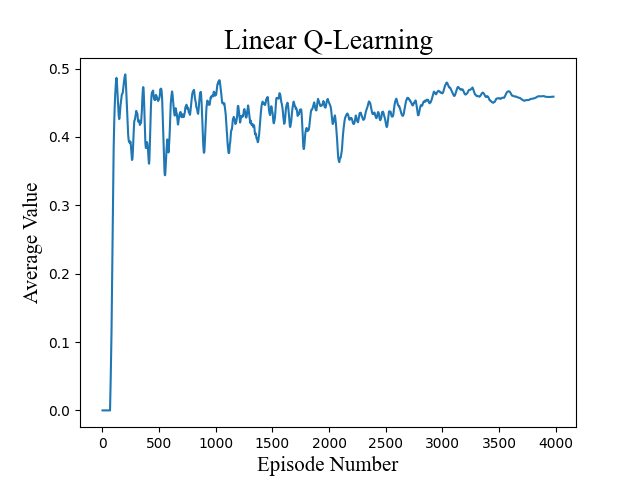
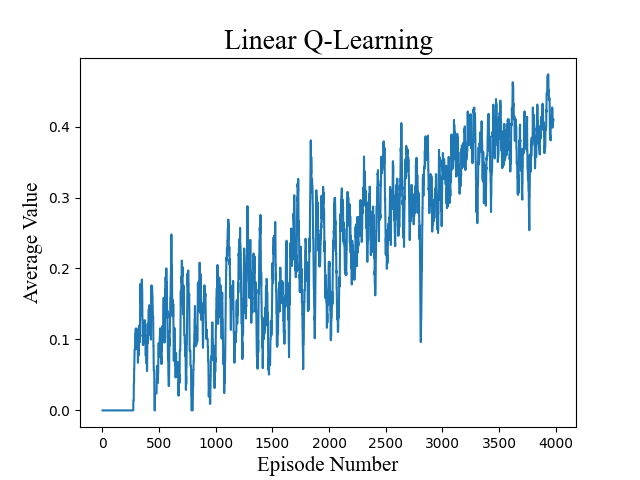
Corrected plots

diff --git a/FrozenLake.py b/FrozenLake.py
@@ -374,6 +374,7 @@ def sarsa(env, max_episodes, eta, gamma, epsilon, seed=None):
         actionValueList=q[stateS]
         actionA=epsilonGreedyAlgo(epsilon[i], actionValueList, env)
         done=False
+        return_rewards = 0
         while not done:
             ns,reward,done=env.step(actionA)
            
@@ -381,8 +382,9 @@ def sarsa(env, max_episodes, eta, gamma, epsilon, seed=None):
             q[stateS, actionA]=q[stateS,actionA]+(eta[i]*(reward+(gamma*(q[ns,na]))-q[stateS,actionA]))
             stateS=ns
             actionA=na
-        # Storing reward    
-        reward_store_array = reward_store_array + [np.mean(q.max(axis=1))] 
+            # Storing reward    
+            return_rewards = return_rewards + (gamma**env.n_steps) * reward
+        reward_store_array.append(return_rewards)
 
     # Plotting graph
     graph_plot = np.convolve(reward_store_array, np.ones(20)/20, mode='valid')
@@ -415,6 +417,7 @@ def q_learning(env, max_episodes, eta, gamma, epsilon, seed=None):
         stateS = env.reset()
         actionList=q[stateS]
         actionA=epsilonGreedyAlgo(epsilon[i], actionList, env)
+        return_rewards = 0
         done=False
         while not done:
             ns,reward,done=env.step(actionA)
@@ -432,7 +435,8 @@ def q_learning(env, max_episodes, eta, gamma, epsilon, seed=None):
             actionA=na
 
         # Storing reward    
-        reward_store_array = reward_store_array + [np.mean(q.max(axis=1))] 
+            return_rewards = return_rewards + (gamma**env.n_steps) * reward
+        reward_store_array.append(return_rewards)
  
     # Plotting graph
     graph_plot = np.convolve(reward_store_array, np.ones(20)/20, mode='valid')
@@ -515,7 +519,7 @@ def linear_sarsa(env, max_episodes, eta, gamma, epsilon, seed=None):
         q = features.dot(theta)
         # TODO:
         action = epsilonGreedyFunction(random_state, env, q, epsilon[i])
-
+        return_rewards = 0
         done = False
         while not done:
             e = (gamma * e) + features[action]
@@ -531,7 +535,8 @@ def linear_sarsa(env, max_episodes, eta, gamma, epsilon, seed=None):
             features = features_dash
 
         # Storing reward    
-        reward_store_array = reward_store_array + [np.mean(env.decode_policy(theta)[1])]
+            return_rewards = return_rewards + (gamma**env.env.n_steps) * reward
+        reward_store_array.append(return_rewards)
 
     # Plotting graph
     graph_plot = np.convolve(reward_store_array, np.ones(20)/20, mode='valid')
@@ -571,7 +576,7 @@ def linear_q_learning(env, max_episodes, eta, gamma, epsilon, seed=None):
         q = features.dot(theta)
         # TODO:
         action = epsilonGreedyFunction(random_state, env, q, epsilon[i])
-
+        return_rewards = 0
         done = False
         while not done:
             features_dash, reward, done = env.step(action)
@@ -601,7 +606,8 @@ def linear_q_learning(env, max_episodes, eta, gamma, epsilon, seed=None):
             features = features_dash
 
         # Storing reward    
-        reward_store_array = reward_store_array + [np.mean(env.decode_policy(theta)[1])]   
+            return_rewards = return_rewards + (gamma**env.env.n_steps) * reward
+        reward_store_array.append(return_rewards)  
 
     # Plotting graph
     graph_plot = np.convolve(reward_store_array, np.ones(20)/20, mode='valid')
@@ -871,7 +877,7 @@ def main():
     max_episodes = 4000
     
     print('')
-    '''
+    
     print('## Sarsa')
     policy, value = sarsa(env, max_episodes, eta=0.5, gamma=gamma,
                           epsilon=0.5, seed=seed)
@@ -918,7 +924,7 @@ def main():
                                   fc_out_features=8, seed=4)
     policy, value = image_env.decode_policy(dqn)
     image_env.render(policy, value)
-    
+    '''
 
 
 if __name__ == '__main__':
